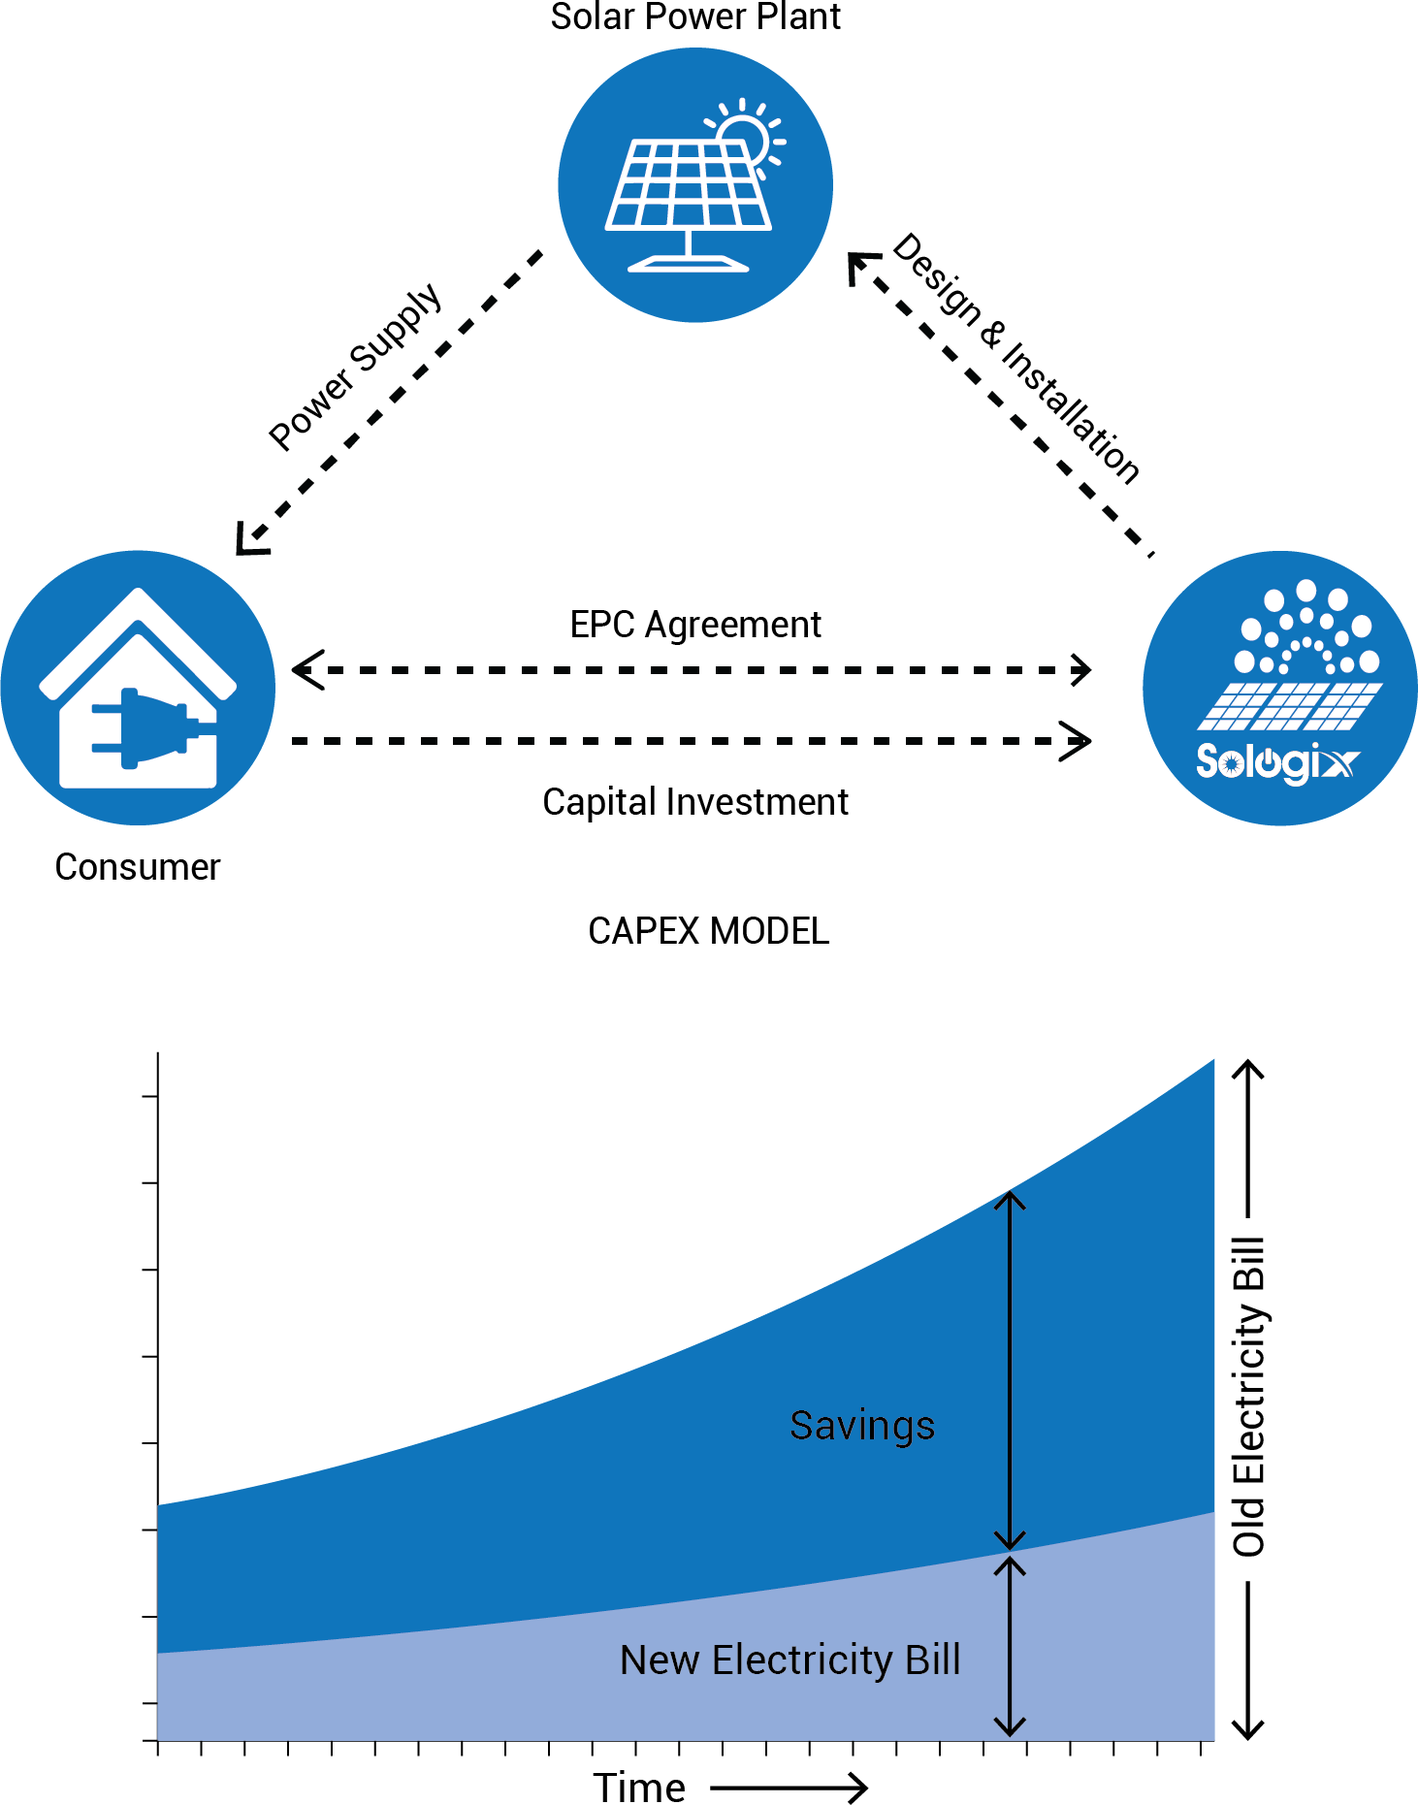
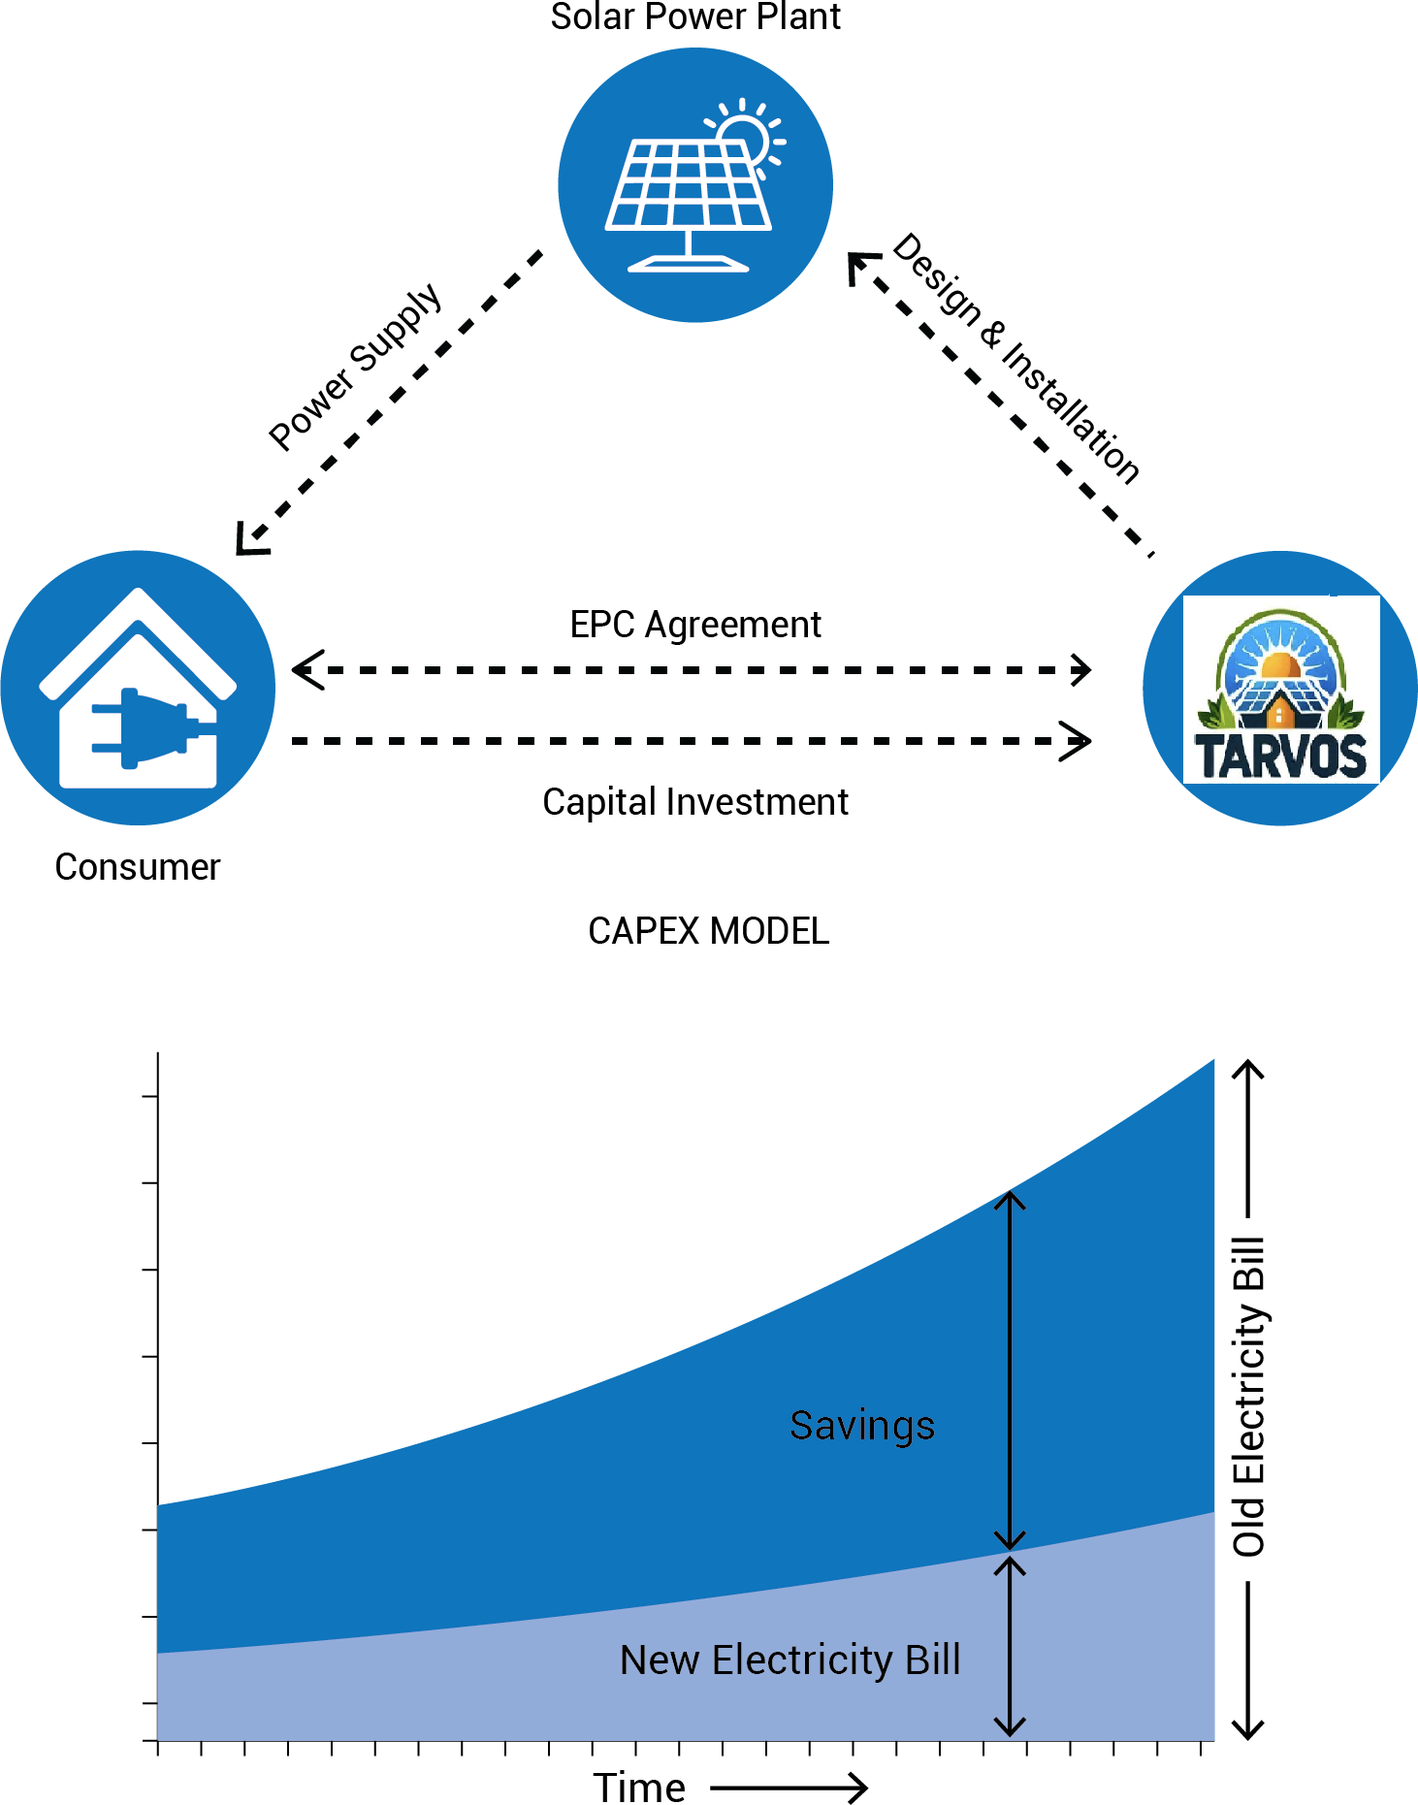
updates ..

Changed region(s): [[0.8311, 0.3117, 0.985, 0.4363]]

diff --git a/index.html b/index.html
@@ -170,7 +170,7 @@
                                     <h2 class="mb-30">Professional Successful Renewable Energy Storage Solutions Company</h2>
                                 </div>
                                 <div class="history__content">
-                                    <span class="history__content__para">We are a Renewable Energy Company founded by a team of Engineering Graduates from IIT, NIT, and DTU with in-depth sectoral knowledge and skills.</span>
+                                    <span class="history__content__para">We are a Renewable Energy Company founded by a team of Engineering Graduates from NIT, and DTU with in-depth sectoral knowledge and skills.</span>
                                     <p class="mt-30 mb-40">
                                         With the increasing GHG emission and Global Warming threat, we realized that there is a need to counter the adverse impact of climate change and limit the Earth’s rising temperature.
                                     </p>
@@ -292,7 +292,7 @@
                                 </div>
                                 <div class="promotion__text text2">
                                     <h6 class="mb-15">Skilled Technical <br> Team</h6>
-                                    <p>Our team is a group of highly skilled technical professionals. All core team members are Engineering graduate from the reputed technical institute such as IIT, NIT and DCE and have a decade of experience in solar energy sector.</p>
+                                    <p>Our team is a group of highly skilled technical professionals. All core team members are Engineering graduate from the reputed technical institute such as NIT and DCE and have a decade of experience in solar energy sector.</p>
                                 </div>
                             </div>
                         </div>
@@ -316,7 +316,7 @@
                                 </div>
                                 <div class="promotion__text text2">
                                     <h6 class="mb-15">Assistance in Availing <br> Subsidy</h6>
-                                    <p>We are empanelled with state distribution companies such as JBVNL and TSUISL and avail subsidy on behalf of consumers. Consumers need not to run to DISCOM office for getting subsidy.</p>
+                                    <p>We are empanelled with state distribution companies such as NBPDCL and SBPDCL and avail subsidy on behalf of consumers. Consumers need not to run to DISCOM office for getting subsidy.</p>
                                 </div>
                             </div>
                         </div>
@@ -2146,7 +2146,7 @@
                                     <i class="far fa-map-marker-alt"></i>
                                 </div>
                                 <div class="addres-bar__content">
-                                    <span class="direction">Plot No. - 3 , Railway Gol Market, Balidih, Bokaro Steel City, Jharkhand - 827010</span>
+                                    <span class="direction">Sasamusa Bazaar, Gopalganj, Bihar - 841505</span>
                                 </div>
                             </div>
                             <div class="addres-bar d-flex mb-10">
@@ -2154,7 +2154,7 @@
                                     <i class="far fa-envelope"></i>
                                 </div>
                                 <div class="addres-bar__content">
-                                    <span class="direction"> tarvosworld@gmail.com</span>
+                                    <span class="direction"> sales@tarvosworld.com</span>
                                 </div>
                             </div>
                             <div class="addres-bar d-flex mb-10">
@@ -2162,7 +2162,7 @@
                                     <i class="far fa-phone"></i>
                                 </div>
                                 <div class="addres-bar__content">
-                                    <span class="direction"><a href="tel:8789766364">8789766364</a>, <a href="tel:9319618747">9319618747</a></span>
+                                    <span class="direction"><a href="tel:8789766364">8789766364</a></span>
                                 </div>
                             </div>
                         </div>

diff --git a/about-us.html b/about-us.html
@@ -123,7 +123,7 @@
                                 <div class="section-title text-left mb-35">
                                     <h6 class="mb-25">About Company</h6>
                                     <h2 class="mb-35">What Makes Us Different</h2>
-                                    <p>We are a Renewable Energy Company founded by a team of Engineering Graduates from IIT, NIT, and DTU with in-depth sectoral knowledge and skills. With the increasing GHG emission and Global Warming threat, we realized that there is a need to counter the adverse impact of climate change and limit the Earth’s rising temperature. We are on a mission to make this planet a better place to live and we are committed to make clean energy available to all which is, Renewable, Reliable, and Affordable.</p>
+                                    <p>We are a Renewable Energy Company founded by a team of Engineering Graduates from NIT, and DTU with in-depth sectoral knowledge and skills. With the increasing GHG emission and Global Warming threat, we realized that there is a need to counter the adverse impact of climate change and limit the Earth’s rising temperature. We are on a mission to make this planet a better place to live and we are committed to make clean energy available to all which is, Renewable, Reliable, and Affordable.</p>
                                 </div>
                             </div>
                         </div>
@@ -2096,7 +2096,7 @@
                                     <i class="far fa-map-marker-alt"></i>
                                 </div>
                                 <div class="addres-bar__content">
-                                    <span class="direction">Plot No. - 3 , Railway Gol Market, Balidih, Bokaro Steel City, Jharkhand - 827010</span>
+                                    <span class="direction">Sasamusa Bazaar, Gopalganj, Bihar - 841505</span>
                                 </div>
                             </div>
                             <div class="addres-bar d-flex mb-10">
@@ -2104,7 +2104,7 @@
                                     <i class="far fa-envelope"></i>
                                 </div>
                                 <div class="addres-bar__content">
-                                    <span class="direction"><a href="mailto:tarvosworld@gmail.com">tarvosworld@gmail.com</a></span>
+                                    <span class="direction"><a href="mailto:sales@tarvosworld.com">sales@tarvosworld.com</a></span>
                                 </div>
                             </div>
                             <div class="addres-bar d-flex mb-10">
@@ -2112,7 +2112,7 @@
                                     <i class="far fa-phone"></i>
                                 </div>
                                 <div class="addres-bar__content">
-                                    <span class="direction"><a href="tel:8789766364">8789766364</a>, <a href="tel:9319618747">9319618747</a></span>
+                                    <span class="direction"><a href="tel:8789766364">8789766364</a></span>
                                 </div>
                             </div>
                         </div>

diff --git a/contact.html b/contact.html
@@ -128,7 +128,7 @@
                                 <span class="shadow-icon"><i class="fal fa-envelope"></i></span>
                                 <a class="mb-25" href="contact.html#"><i class="fal fa-envelope-open"></i></a>
                                 <p class="mb-15">Email Adress</p>
-                                <h5 class="semi-title">tarvosworld@gmail.com</h5>
+                                <h5 class="semi-title">sales@tarvosworld.com</h5>
                             </div>
                         </div>
                         <div class="col-xl-4 col-lg-4 col-md-6 d-flex align-items-stretch">
@@ -136,7 +136,7 @@
                                 <span class="shadow-icon"><i class="fal fa-map-marked-alt"></i></span>
                                 <a class="mb-25" href="contact.html#"><i class="far fa-map-marker-alt"></i></a>
                                 <p class="mb-15">Office Adress</p>
-                                <h5 class="semi-title">Plot No. - 3 , Railway Gol Market, Balidih, Bokaro Steel City, Jharkhand - 827010</h5>
+                                <h5 class="semi-title">Sasamusa Bazaar, Gopalganj, Bihar - 841505</h5>
                             </div>
                         </div>
                         <div class="col-xl-4 col-lg-4 col-md-6 d-flex align-items-stretch">
@@ -419,7 +419,7 @@
                                     <i class="far fa-map-marker-alt"></i>
                                 </div>
                                 <div class="addres-bar__content">
-                                    <span class="direction">Plot No. - 3 , Railway Gol Market, Balidih, Bokaro Steel City, Jharkhand - 827010</span>
+                                    <span class="direction">Sasamusa Bazaar, Gopalganj, Bihar - 841505</span>
                                 </div>
                             </div>
                             <div class="addres-bar d-flex mb-10">
@@ -427,7 +427,7 @@
                                     <i class="far fa-envelope"></i>
                                 </div>
                                 <div class="addres-bar__content">
-                                    <span class="direction"><a href="mailto:tarvosworld@gmail.com">tarvosworld@gmail.com</a></span>
+                                    <span class="direction"><a href="mailto:sales@tarvosworld.com">sales@tarvosworld.com</a></span>
                                 </div>
                             </div>
                             <div class="addres-bar d-flex mb-10">
@@ -435,7 +435,7 @@
                                     <i class="far fa-phone"></i>
                                 </div>
                                 <div class="addres-bar__content">
-                                    <span class="direction"><a href="tel:8789766364">8789766364</a>, <a href="tel:9319618747">9319618747</a></span>
+                                    <span class="direction"><a href="tel:8789766364">8789766364</a></span>
                                 </div>
                             </div>
                         </div>

diff --git a/solar-for-business.html b/solar-for-business.html
@@ -385,7 +385,7 @@
 						<div class="col-md-5">
 							<div class="section-title text-left mb-25">
 								<h6 class="mb-25">Design By Tarvos</h6>
-								<h2 class="mb-25">Design and Delivered by Engineers from IIT & NIT</h2>
+								<h2 class="mb-25">Design and Delivered by Engineers from NIT and DTU</h2>
 								<ul class="service__text--list">
 									<li>Latest technology and quality equipment</li>
 									<li>Competitive costing /tariff</li>
@@ -716,7 +716,7 @@
                                     <i class="far fa-map-marker-alt"></i>
                                 </div>
                                 <div class="addres-bar__content">
-                                    <span class="direction">Plot No. - 3 , Railway Gol Market, Balidih, Bokaro Steel City, Jharkhand - 827010</span>
+                                    <span class="direction">Sasamusa Bazaar, Gopalganj, Bihar - 841505</span>
                                 </div>
                             </div>
                             <div class="addres-bar d-flex mb-10">
@@ -724,7 +724,7 @@
                                     <i class="far fa-envelope"></i>
                                 </div>
                                 <div class="addres-bar__content">
-                                    <span class="direction"><a href="mailto:tarvosworld@gmail.com">tarvosworld@gmail.com</a></span>
+                                    <span class="direction"><a href="mailto:sales@tarvosworld.com">sales@tarvosworld.com</a></span>
                                 </div>
                             </div>
                             <div class="addres-bar d-flex mb-10">
@@ -732,7 +732,7 @@
                                     <i class="far fa-phone"></i>
                                 </div>
                                 <div class="addres-bar__content">
-                                    <span class="direction"><a href="tel:8789766364">8789766364</a>, <a href="tel:9319618747">9319618747</a></span>
+                                    <span class="direction"><a href="tel:8789766364">8789766364</a></span>
                                 </div>
                             </div>
                         </div>

diff --git a/get-quote.html b/get-quote.html
@@ -382,7 +382,7 @@
                                     <i class="far fa-map-marker-alt"></i>
                                 </div>
                                 <div class="addres-bar__content">
-                                    <span class="direction">Plot No. - 3 , Railway Gol Market, Balidih, Bokaro Steel City, Jharkhand - 827010</span>
+                                    <span class="direction">Sasamusa Bazaar, Gopalganj, Bihar - 841505</span>
                                 </div>
                             </div>
                             <div class="addres-bar d-flex mb-10">
@@ -390,7 +390,7 @@
                                     <i class="far fa-envelope"></i>
                                 </div>
                                 <div class="addres-bar__content">
-                                    <span class="direction"><a href="mailto:tarvosworld@gmail.com">tarvosworld@gmail.com</a></span>
+                                    <span class="direction"><a href="mailto:sales@tarvosworld.com">sales@tarvosworld.com</a></span>
                                 </div>
                             </div>
                             <div class="addres-bar d-flex mb-10">
@@ -398,7 +398,7 @@
                                     <i class="far fa-phone"></i>
                                 </div>
                                 <div class="addres-bar__content">
-                                    <span class="direction"><a href="tel:8789766364">8789766364</a>, <a href="tel:9319618747">9319618747</a></span>
+                                    <span class="direction"><a href="tel:8789766364">8789766364</a></span>
                                 </div>
                             </div>
                         </div>

diff --git a/resource.html b/resource.html
@@ -452,7 +452,7 @@
                                     <i class="far fa-map-marker-alt"></i>
                                 </div>
                                 <div class="addres-bar__content">
-                                    <span class="direction">Plot No. - 3 , Railway Gol Market, Balidih, Bokaro Steel City, Jharkhand - 827010</span>
+                                    <span class="direction">Sasamusa Bazaar, Gopalganj, Bihar - 841505</span>
                                 </div>
                             </div>
                             <div class="addres-bar d-flex mb-10">
@@ -460,7 +460,7 @@
                                     <i class="far fa-envelope"></i>
                                 </div>
                                 <div class="addres-bar__content">
-                                    <span class="direction">tarvosworld@gmail.com</span>
+                                    <span class="direction">sales@tarvosworld.com</span>
                                 </div>
                             </div>
                             <div class="addres-bar d-flex mb-10">
@@ -468,7 +468,7 @@
                                     <i class="far fa-phone"></i>
                                 </div>
                                 <div class="addres-bar__content">
-                                    <span class="direction"><a href="tel:8789766364">8789766364</a>, <a href="tel:9319618747">9319618747</a></span>
+                                    <span class="direction"><a href="tel:8789766364">8789766364</a></span>
                                 </div>
                             </div>
                         </div>

diff --git a/become-a-partner.html b/become-a-partner.html
@@ -501,7 +501,7 @@
                                     <i class="far fa-map-marker-alt"></i>
                                 </div>
                                 <div class="addres-bar__content">
-                                    <span class="direction">Plot No. - 3 , Railway Gol Market, Balidih, Bokaro Steel City, Jharkhand - 827010</span>
+                                    <span class="direction">Sasamusa Bazaar, Gopalganj, Bihar - 841505</span>
                                 </div>
                             </div>
                             <div class="addres-bar d-flex mb-10">
@@ -509,7 +509,7 @@
                                     <i class="far fa-envelope"></i>
                                 </div>
                                 <div class="addres-bar__content">
-                                    <span class="direction"><a href="mailto:tarvosworld@gmail.com">tarvosworld@gmail.com</a></span>
+                                    <span class="direction"><a href="mailto:sales@tarvosworld.com">sales@tarvosworld.com</a></span>
                                 </div>
                             </div>
                             <div class="addres-bar d-flex mb-10">

diff --git a/solar-for-home.html b/solar-for-home.html
@@ -1105,7 +1105,7 @@
 								<i class="far fa-envelope"></i>
 							</div>
 							<div class="addres-bar__content">
-								<span class="direction"><a href="mailto:tarvosworld@gmail.com">tarvosworld@gmail.com</a></span>
+								<span class="direction"><a href="mailto:sales@tarvosworld.com">sales@tarvosworld.com</a></span>
 							</div>
 						</div>
 						<div class="addres-bar d-flex mb-10">
@@ -1113,7 +1113,7 @@
 								<i class="far fa-phone"></i>
 							</div>
 							<div class="addres-bar__content">
-								<span class="direction"><a href="tel:8789766364">8789766364</a>, <a href="tel:9319618747">9319618747</a></span>
+								<span class="direction"><a href="tel:8789766364">8789766364</a></span>
 							</div>
 						</div>
 					</div>
